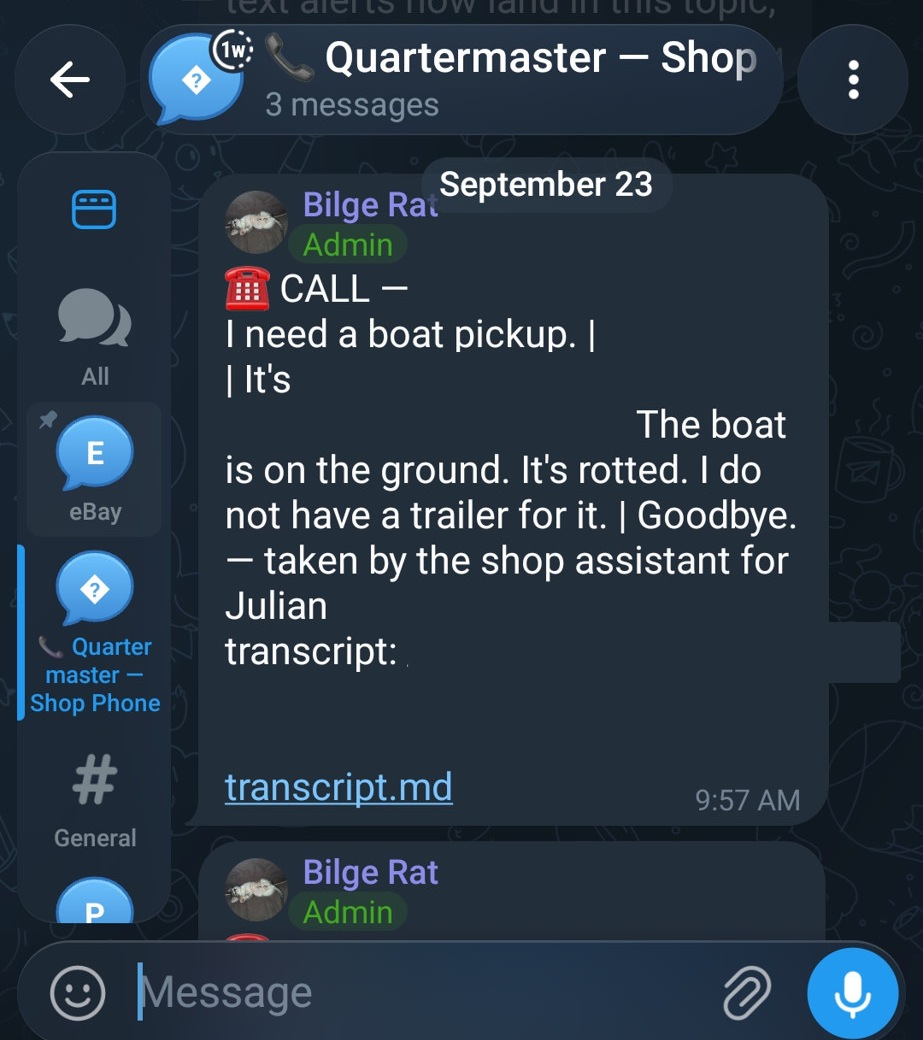
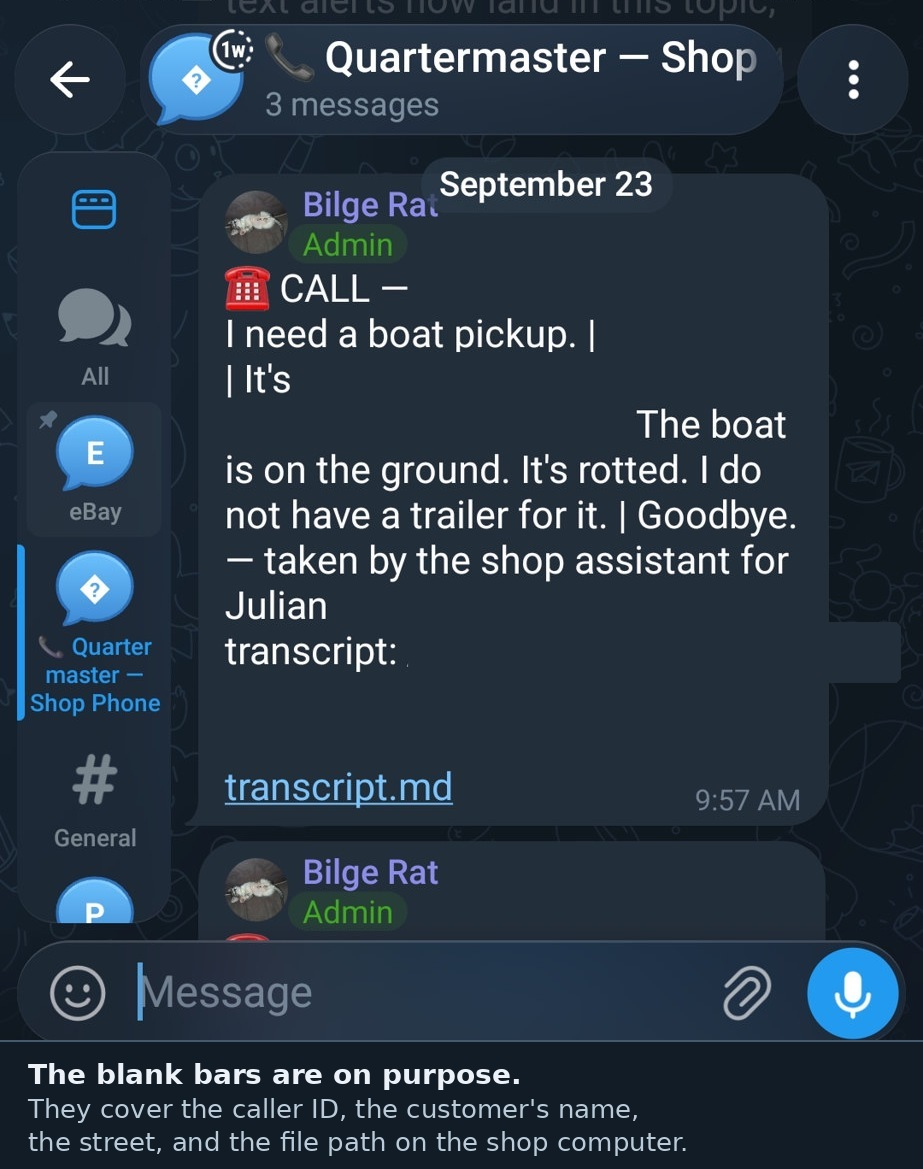
Explain the blank bars on the boat-pickup proof shot.
They cover the caller ID, the customer's name, the street, and the shop-computer path.

diff --git a/README.md b/README.md
@@ -198,11 +198,13 @@ Keys go in `.env` (git-ignored): `GROQ_API_KEY`, `ZAI_API_KEY`,
 ## On the line (September 23, 2026)
 
 Boat-pickup test call. Quartermaster answered, took the message, and posted
-the transcript into Telegram on the shop phone. The caller’s number, name,
-and address are covered in the shot. The phone still cannot open
+the transcript into Telegram on the shop phone. The phone still cannot open
 `transcript.md` from that chat: the alert links a file on the shop computer.
 
-![Boat pickup transcript in Telegram](docs/boat-pickup-telegram-2026-09-23.jpg)
+The blank bars in the photo are on purpose. They cover the caller ID, the
+customer's name, the street, and the file path on the shop computer.
+
+![Boat pickup transcript in Telegram. Blank bars cover the caller ID, the customer's name, the street, and the shop-computer path.](docs/boat-pickup-telegram-2026-09-23.jpg)
 
 ---
 
